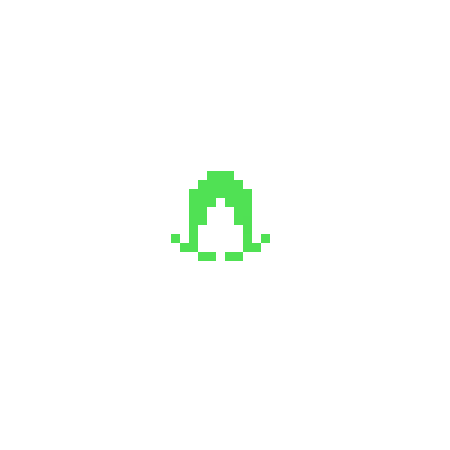
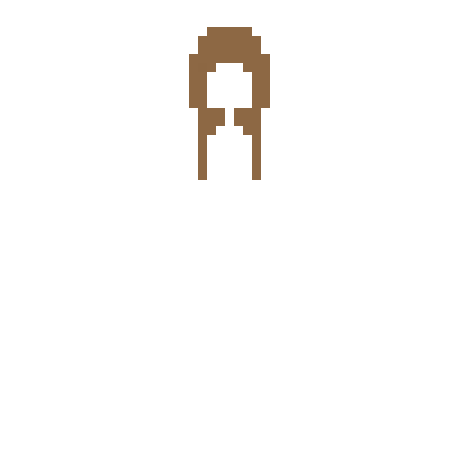
new sprites added and old sprites has been fixed

Changed region(s): [[0.3733, 0.0622, 0.6222, 0.5911]]

diff --git a/vendor/game.js b/vendor/game.js
@@ -2,20 +2,27 @@ var game = new Phaser.Game(800, 600, Phaser.AUTO, 'phaser-game', { preload: prel
 
 
 var index = 0;
-var arrHair = ['hair0','hair1','hair2'];
-
+var arrHair = ['hair1','hair2','hair3'];
+var arrTop = ['top1','top2','top3'];
+var arrBottom = ['bottom1','bottom2','bottom3']
+var hair,left,right,topA,bottomA; //se usa para mientras topA y bottomA porque top y botton ya existe
+//anchor 207:45
 function preload() {
-  game.load.image('body1','assets/body/body1.png');
-  game.load.image('btnleft','assets/left.png');
-  game.load.image('btnright','assets/right.png');
-  game.load.image('hair0','assets/hair/hair0.png');
-  game.load.image('hair1','assets/hair/hair1.png');
-  game.load.image('hair2','assets/hair/hair2.png');
-  game.load.image('top1','assets/top/top1.png')
-  game.load.image('bottom1','assets/bottom/bottom1.png');
-}
 
-var hair,left,right;
+   game.load.image('btnleft','assets/left.png');
+   game.load.image('btnright','assets/right.png');
+   game.load.image('body1','assets/body/body1.png');
+   game.load.image('hair1','assets/hair/hair1.png');
+   game.load.image('top1','assets/top/top1.png')
+   game.load.image('bottom1','assets/bottom/bottom1.png');
+   game.load.image('body2','assets/body/body2.png');
+   game.load.image('hair2','assets/hair/hair2.png');
+   game.load.image('top2','assets/top/top2.png')
+   game.load.image('bottom2','assets/bottom/bottom2.png');
+   game.load.image('hair3','assets/hair/hair3.png');
+   game.load.image('top3','assets/top/top3.png')
+   game.load.image('bottom3','assets/bottom/bottom3.png');
+}
 
 function onLeftHair() {
   if (index <= 0) {
@@ -33,23 +40,54 @@ function onRightHair() {
   hair.loadTexture(arrHair[index]);
 }
 
+function onLeftTop() {
+  if (index <= 0) {
+    index = 3;
+  }
+  index--;
+  topA.loadTexture(arrTop[index]);
+}
+
+function onRightTop() {
+  if (index >= 2) {
+    index = -1;
+  }
+  index++;
+  topA.loadTexture(arrTop[index]);
+}
+
+function onLeftBottom() {
+  if (index <= 0) {
+    index = 3;
+  }
+  index--;
+  bottomA.loadTexture(arrBottom[index]);
+}
+
+function onRightBottom() {
+  if (index >= 2) {
+    index = -1;
+  }
+  index++;
+  bottomA.loadTexture(arrBottom[index]);
+}
+
+
 function create() {
   game.stage.backgroundColor = "#4488AA";
-
-  game.add.image(150,75,'body1');
-
-  hair = game.add.sprite(141,-30,arrHair[index]);
-  game.add.image(141,66,'top1');
-  game.add.image(150,93,'bottom1');
+  game.add.image(140,75,'body1');
+  hair = game.add.sprite(140,75,arrHair[index]);
+  topA = game.add.sprite(140,75,arrTop[index]);
+  bottomA = game.add.sprite(140,75,arrBottom[index]);
 
   hairLeft = game.add.button(247,130,'btnleft',onLeftHair).scale.setTo(0.8);
   hairRight = game.add.button(410,130,'btnright',onRightHair).scale.setTo(0.8);
 
-  game.add.image(247,250,'btnleft').scale.setTo(0.8);
-  game.add.image(410,250,'btnright').scale.setTo(0.8);
+  topLeft = game.add.button(247,250,'btnleft',onLeftTop).scale.setTo(0.8);
+  topRight = game.add.button(410,250,'btnright',onRightTop).scale.setTo(0.8);
 
-  game.add.image(247,370,'btnleft').scale.setTo(0.8);
-  game.add.image(410,370,'btnright').scale.setTo(0.8);
+  bottomLeft = game.add.button(247,370,'btnleft',onLeftBottom).scale.setTo(0.8);
+  bottomRight = game.add.button(410,370,'btnright',onRightBottom).scale.setTo(0.8);
 
 }
 
